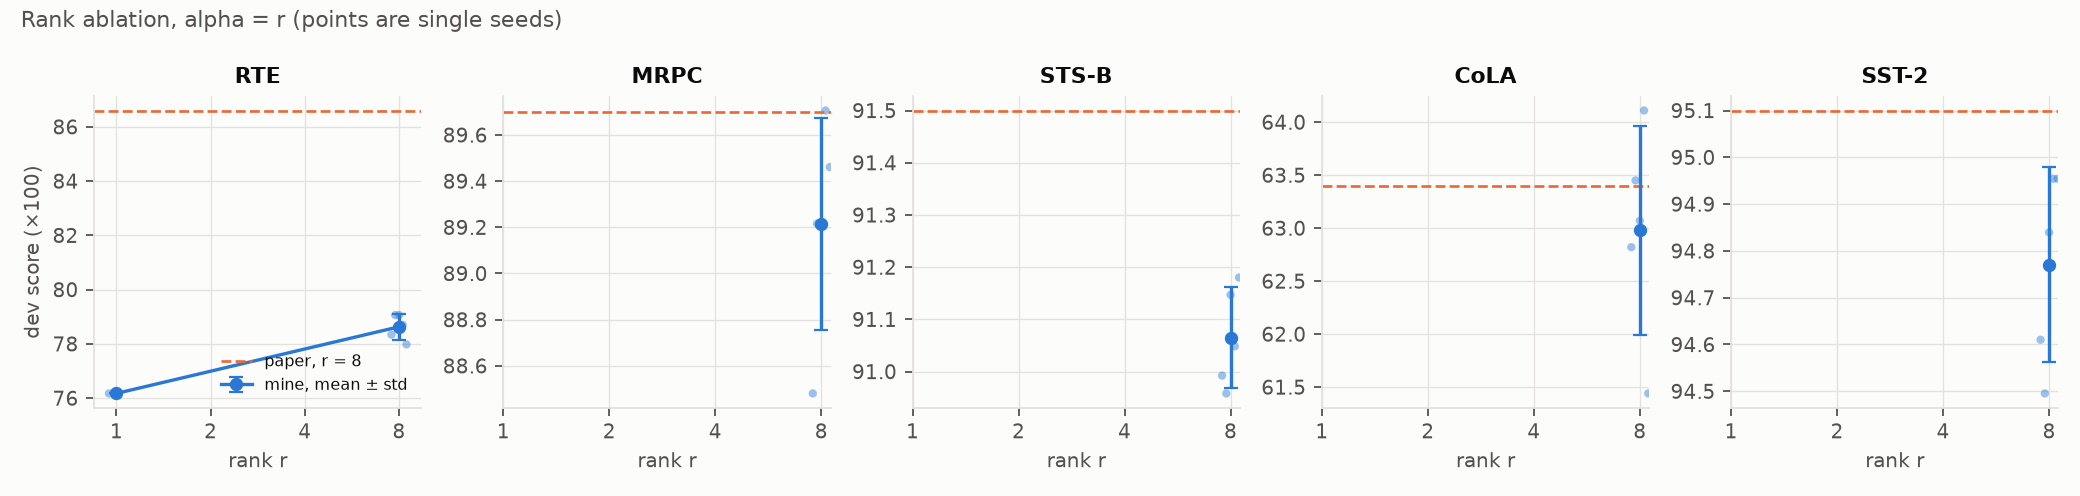
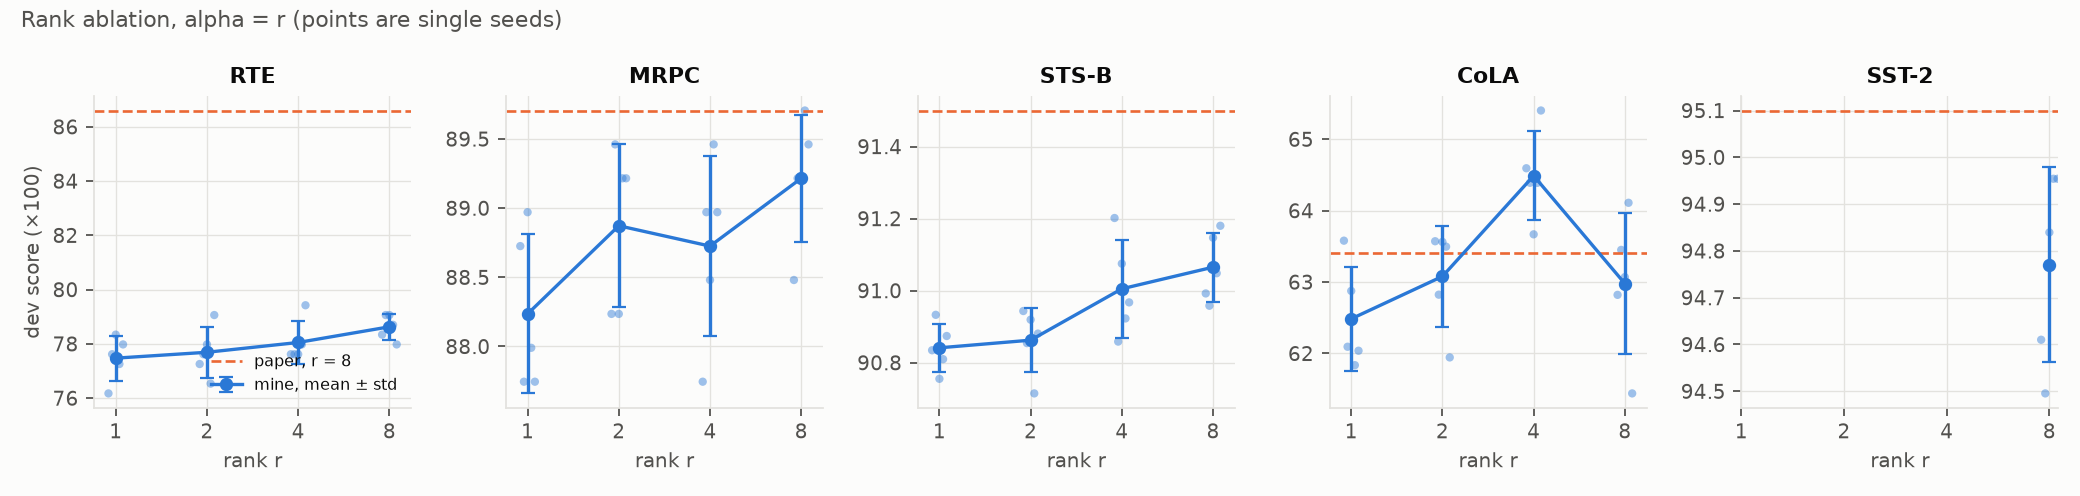
Regenerate figures and README blocks after small-task rank ablation

diff --git a/README.md b/README.md
@@ -25,6 +25,7 @@ Protocol: scores are GLUE **dev (validation)** results. As in the paper, every r
 - Across the five tasks, the mean of the per-task LoRA medians is 83.4 against 85.3 for the published LoRA row (-1.9).
 - The largest per-task difference is on RTE: median 78.7 versus 86.6 published (-7.9). MRPC, RTE and STS-B start from the pre-trained model here and from an MNLI-adapted checkpoint in the published row.
 - LoRA (median) is above my full fine-tuning run on 3 of 5 tasks; the mean difference of medians is +0.0. The FT run uses one fixed setting and no MNLI start.
+- Rank ablation: the mean score at r = 1 differs from r = 8 by no more than the larger seed std on 1 of 4 tasks.
 - Seed sensitivity: the LoRA std is largest on CoLA (1.0) and smallest on STS-B (0.1); the mean std of RTE and MRPC is 0.5 against 0.4 for SST-2, CoLA and STS-B.
 <!-- END:key_findings -->
 
@@ -50,7 +51,7 @@ Expected runtime on an RTX 4070 SUPER (estimate from the timing probe, next to t
 | Target | Estimated GPU hours (probe) | Measured train hours | Runs finished |
 | :--- | ---: | ---: | ---: |
 | `make core` | 15.2 | 17.8 | 50 / 50 |
-| `make ablation` (ranks other than the default) | 36.8 | 0.1 | 1 / 75 |
+| `make ablation` (ranks other than the default) | 36.8 | 6.7 | 60 / 75 |
 | `make proj_ablation` (variants other than the default) | 4.7 | 0.0 | 0 / 45 |
 <!-- END:runtime -->
 
@@ -155,9 +156,9 @@ Mean ± std over seeds (alpha = r):
 <!-- BEGIN:rank_mean -->
 | Rank | LoRA params (excl. head) | SST-2 | MRPC | CoLA | RTE | STS-B |
 | :--- | ---: | ---: | ---: | ---: | ---: | ---: |
-| r = 1 | 36,864 | – | – | – | 76.2 ± – (n=1) | – |
-| r = 2 | – | – | – | – | – | – |
-| r = 4 | – | – | – | – | – | – |
+| r = 1 | 36,864 | – | 88.2 ± 0.6 | 62.5 ± 0.7 | 77.5 ± 0.8 | 90.8 ± 0.1 |
+| r = 2 | 73,728 | – | 88.9 ± 0.6 | 63.1 ± 0.7 | 77.7 ± 0.9 | 90.9 ± 0.1 |
+| r = 4 | 147,456 | – | 88.7 ± 0.6 | 64.5 ± 0.6 | 78.1 ± 0.8 | 91.0 ± 0.1 |
 | r = 8 | 294,912 | 94.8 ± 0.2 | 89.2 ± 0.5 | 63.0 ± 1.0 | 78.6 ± 0.5 | 91.1 ± 0.1 |
 <!-- END:rank_mean -->
 
@@ -166,9 +167,9 @@ Median over seeds:
 <!-- BEGIN:rank_median -->
 | Rank | LoRA params (excl. head) | SST-2 | MRPC | CoLA | RTE | STS-B |
 | :--- | ---: | ---: | ---: | ---: | ---: | ---: |
-| r = 1 | 36,864 | – | – | – | 76.2 | – |
-| r = 2 | – | – | – | – | – | – |
-| r = 4 | – | – | – | – | – | – |
+| r = 1 | 36,864 | – | 88.0 | 62.1 | 77.6 | 90.8 |
+| r = 2 | 73,728 | – | 89.2 | 63.5 | 77.6 | 90.9 |
+| r = 4 | 147,456 | – | 89.0 | 64.4 | 77.6 | 91.0 |
 | r = 8 | 294,912 | 94.8 | 89.2 | 63.1 | 78.7 | 91.0 |
 <!-- END:rank_median -->
 
@@ -280,10 +281,10 @@ Run coverage (planned versus finished; anything not finished is not reported):
 | Core (LoRA and FT) | STS-B | 10 | 10 | 0 |
 | Core (LoRA and FT) | CoLA | 10 | 10 | 0 |
 | Core (LoRA and FT) | SST-2 | 10 | 10 | 0 |
-| Rank ablation | RTE | 20 | 6 | 14 |
-| Rank ablation | MRPC | 20 | 5 | 15 |
-| Rank ablation | STS-B | 20 | 5 | 15 |
-| Rank ablation | CoLA | 20 | 5 | 15 |
+| Rank ablation | RTE | 20 | 20 | 0 |
+| Rank ablation | MRPC | 20 | 20 | 0 |
+| Rank ablation | STS-B | 20 | 20 | 0 |
+| Rank ablation | CoLA | 20 | 20 | 0 |
 | Rank ablation | SST-2 | 20 | 5 | 15 |
 | Projection ablation | RTE | 20 | 5 | 15 |
 | Projection ablation | MRPC | 20 | 5 | 15 |
